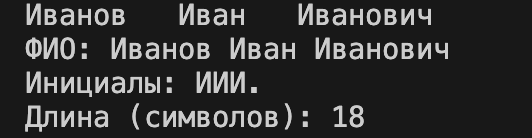
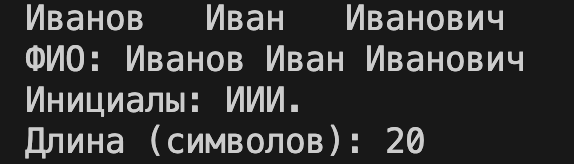
KD

diff --git a/src/lab01/05_initials_and_len.py b/src/lab01/05_initials_and_len.py
@@ -2,4 +2,4 @@ f,i,o=(input().split())
 s=str(f)+str(i)+str(o)
 print('ФИО:',f,i,o)
 print(f'Инициалы: {f[0]+i[0]+o[0]}.')
-print('Длина (символов):',len(s))
+print('Длина (символов):',len(s)+2)
